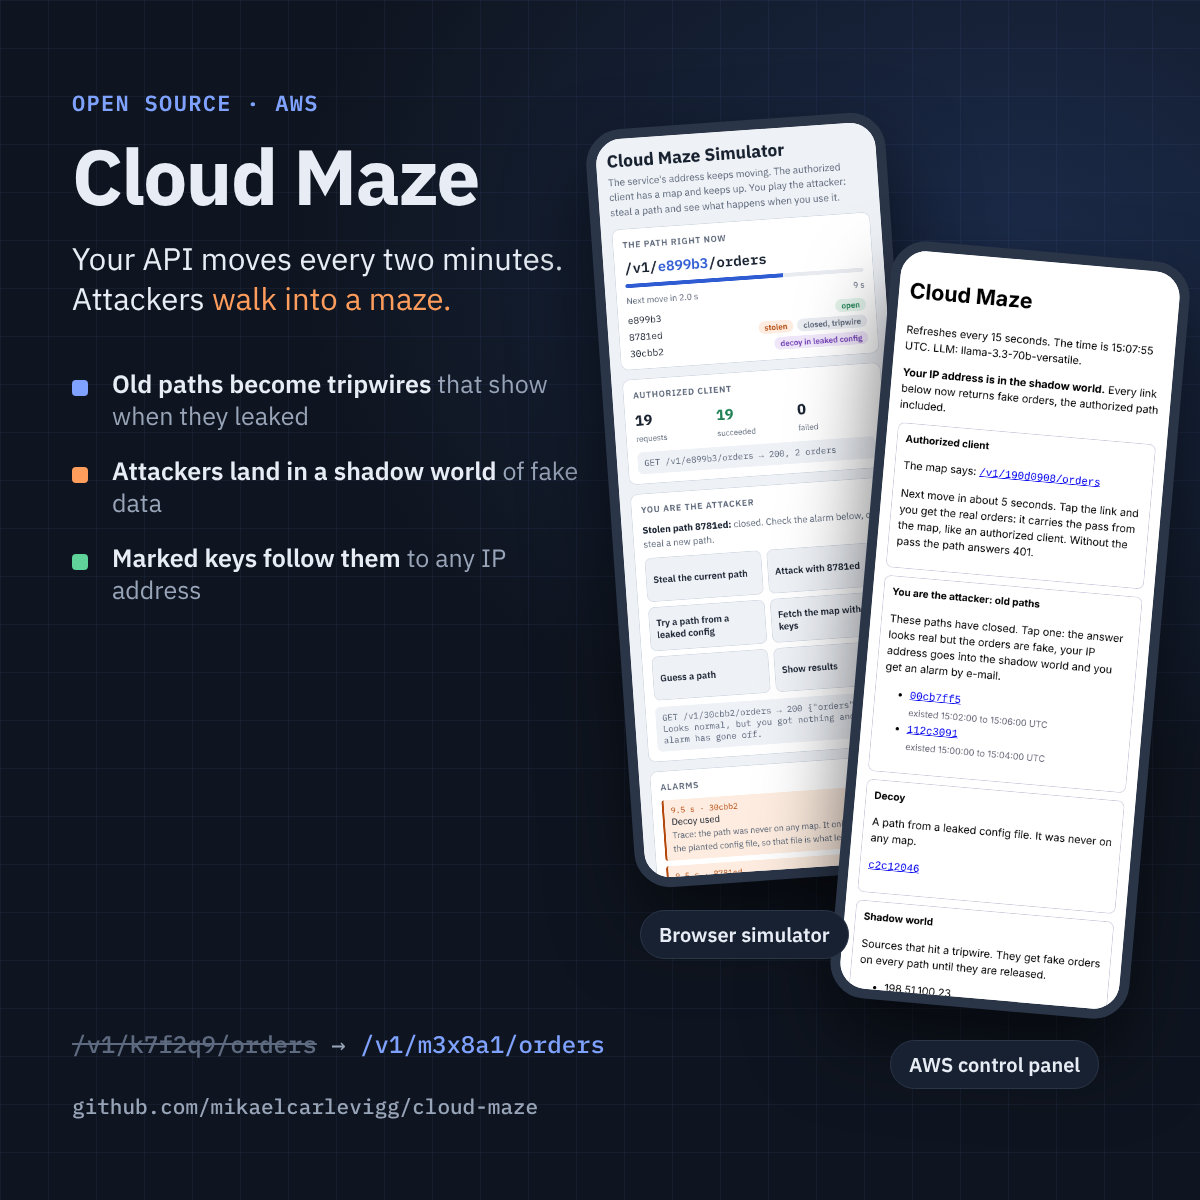
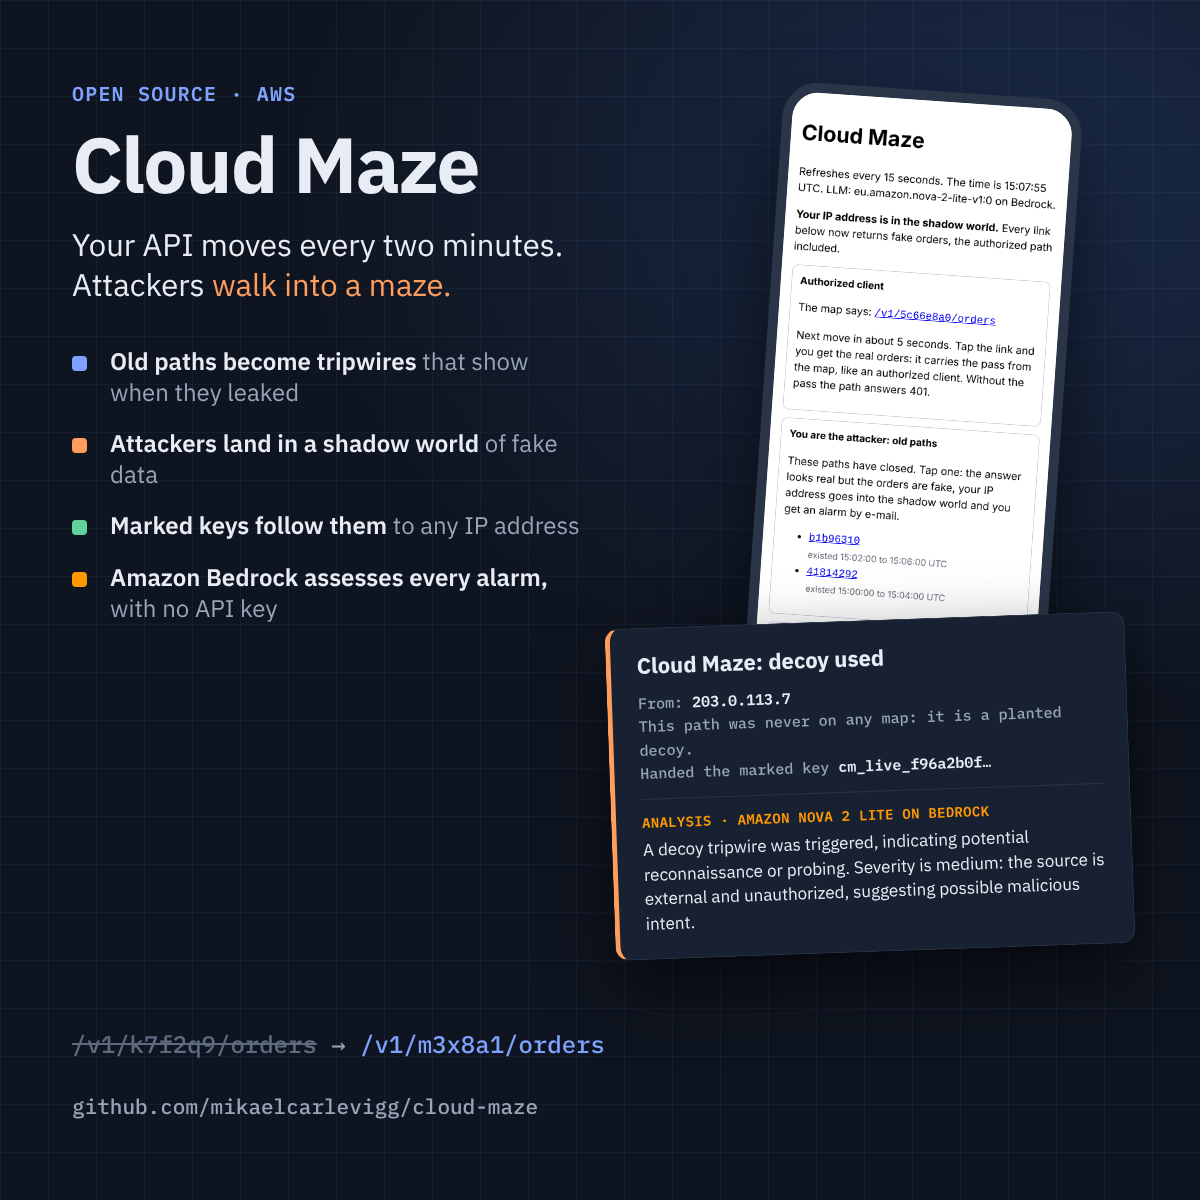
Update the share images for Amazon Bedrock
The LinkedIn image gains a fourth point, that Amazon Bedrock assesses
every alarm with no API key, and replaces the simulator screenshot with
an alarm card. Its analysis text is the real one Amazon Nova 2 Lite wrote
during the Bedrock test, with the IP address replaced by a documentation
address. The control panel screenshot is re-rendered with Nova on
Bedrock as the LLM, and the social preview is redrawn with it.

Claude-Session: https://claude.ai/code/session_01DBQF953LedQxMDd2hyHAQ3

Changed region(s): [[0.0617, 0.0617, 0.9867, 0.8942]]

diff --git a/docs/social/linkedin.html b/docs/social/linkedin.html
@@ -1,35 +1,37 @@
 <!doctype html>
-<!-- Source of docs/images/linkedin.png. Render at 1200 x 1200, for example with a headless browser screenshot. -->
+<!-- Source of docs/images/linkedin.png. Render at 1200 x 1200, for example with a headless browser screenshot.
+     The alarm text is a real analysis from Amazon Nova 2 Lite on Bedrock, with the IP address replaced by a documentation address. -->
 <html><head><meta charset="utf-8">
 <link rel="stylesheet" href="https://fonts.googleapis.com/css2?family=IBM+Plex+Mono:wght@500;600&family=IBM+Plex+Sans:wght@400;600;700&display=swap">
 <style>
-  :root { --bg:#0f1520; --panel:#182131; --ink:#e8edf5; --muted:#98a4b8; --accent:#7fa2ff; --alarm:#ff9d5c; --ok:#5fd39a; }
+  :root { --bg:#0f1520; --panel:#182131; --line:#2a3548; --ink:#e8edf5; --muted:#98a4b8; --accent:#7fa2ff; --alarm:#ff9d5c; --ok:#5fd39a; --aws:#ff9900; }
   * { box-sizing: border-box; }
-  body { margin:0; width:1200px; height:1200px; background: radial-gradient(1200px 900px at 85% 20%, #1b2a48 0%, var(--bg) 60%); color:var(--ink);
+  body { margin:0; width:1200px; height:1200px; background: radial-gradient(1200px 900px at 85% 15%, #1b2a48 0%, var(--bg) 60%); color:var(--ink);
          font-family:"IBM Plex Sans", system-ui, sans-serif; overflow:hidden; position:relative; }
-  .grid { position:absolute; inset:0; background-image: linear-gradient(rgba(127,162,255,.06) 1px, transparent 1px), linear-gradient(90deg, rgba(127,162,255,.06) 1px, transparent 1px);
-          background-size: 48px 48px; }
-  .text { position:absolute; left:72px; top:88px; width:520px; }
-  .eyebrow { font:600 22px "IBM Plex Mono", monospace; color:var(--accent); letter-spacing:.06em; text-transform:uppercase; }
-  h1 { font-size:78px; line-height:1; margin:20px 0 24px; font-weight:700; letter-spacing:-.02em; }
-  .lede { font-size:31px; line-height:1.3; color:var(--ink); margin:0 0 48px; }
+  .grid { position:absolute; inset:0; background-image: linear-gradient(rgba(127,162,255,.06) 1px, transparent 1px), linear-gradient(90deg, rgba(127,162,255,.06) 1px, transparent 1px); background-size: 48px 48px; }
+  .text { position:absolute; left:72px; top:80px; width:520px; }
+  .eyebrow { font:600 20px "IBM Plex Mono", monospace; color:var(--accent); letter-spacing:.06em; text-transform:uppercase; }
+  h1 { font-size:78px; line-height:1; margin:18px 0 22px; font-weight:700; letter-spacing:-.02em; }
+  .lede { font-size:31px; line-height:1.3; margin:0 0 40px; }
   .lede em { font-style:normal; color:var(--alarm); }
-  ul { list-style:none; padding:0; margin:0; display:flex; flex-direction:column; gap:22px; }
-  li { font-size:25px; line-height:1.3; color:var(--muted); padding-left:40px; position:relative; }
+  ul { list-style:none; padding:0; margin:0; display:flex; flex-direction:column; gap:20px; }
+  li { font-size:24px; line-height:1.3; color:var(--muted); padding-left:38px; position:relative; }
   li b { color:var(--ink); font-weight:600; }
-  li::before { content:""; position:absolute; left:0; top:12px; width:16px; height:16px; border-radius:4px; background:var(--accent); }
-  li.alarm::before { background:var(--alarm); }
-  li.ok::before { background:var(--ok); }
+  li::before { content:""; position:absolute; left:0; top:10px; width:15px; height:15px; border-radius:4px; background:var(--accent); }
+  li.alarm::before { background:var(--alarm); } li.ok::before { background:var(--ok); } li.aws::before { background:var(--aws); }
   .path { position:absolute; left:72px; bottom:140px; font:500 24px "IBM Plex Mono", monospace; color:var(--muted); }
   .path s { color:#5d6a80; } .path span { color:var(--accent); }
   .foot { position:absolute; left:72px; bottom:80px; font:500 21px "IBM Plex Mono", monospace; color:var(--muted); }
-  .phone { position:absolute; width:300px; border-radius:36px; overflow:hidden; border:10px solid #2a3548; box-shadow: 0 40px 80px rgba(0,0,0,.55); background:#fff; }
+  .phone { position:absolute; left:760px; top:90px; width:300px; height:700px; border-radius:36px; overflow:hidden; border:10px solid var(--line);
+           box-shadow:0 40px 80px rgba(0,0,0,.55); background:#fff; transform: rotate(4deg); }
   .phone img { display:block; width:100%; }
-  .p1 { left:610px; top:120px; height:760px; transform: rotate(-4deg); }
-  .p2 { left:860px; top:250px; height:760px; transform: rotate(5deg); }
-  .tag { position:absolute; font:600 20px "IBM Plex Sans"; padding:10px 18px; border-radius:999px; }
-  .t1 { left:640px; top:910px; background:var(--panel); color:var(--ink); border:1px solid #2a3548; }
-  .t2 { left:890px; top:1040px; background:var(--panel); color:var(--ink); border:1px solid #2a3548; }
+  .alarm-card { position:absolute; left:610px; top:620px; width:520px; background:var(--panel); border:1px solid var(--line); border-left:5px solid var(--alarm);
+                border-radius:14px; padding:22px 26px; box-shadow:0 30px 70px rgba(0,0,0,.6); transform: rotate(-2deg); }
+  .alarm-card .subject { font:700 22px "IBM Plex Sans"; margin-bottom:12px; }
+  .alarm-card .facts { font:500 15px/1.55 "IBM Plex Mono", monospace; color:var(--muted); }
+  .alarm-card .facts b { color:var(--ink); font-weight:600; }
+  .alarm-card .analysis { margin-top:14px; padding-top:14px; border-top:1px solid var(--line); font-size:17px; line-height:1.45; color:var(--ink); }
+  .alarm-card .by { font:600 14px "IBM Plex Mono", monospace; color:var(--aws); margin-bottom:6px; letter-spacing:.02em; }
 </style></head>
 <body>
   <div class="grid"></div>
@@ -41,12 +43,22 @@
       <li><b>Old paths become tripwires</b> that show when they leaked</li>
       <li class="alarm"><b>Attackers land in a shadow world</b> of fake data</li>
       <li class="ok"><b>Marked keys follow them</b> to any IP address</li>
+      <li class="aws"><b>Amazon Bedrock assesses every alarm,</b> with no API key</li>
     </ul>
   </div>
   <div class="path"><s>/v1/k7f2q9/orders</s> → <span>/v1/m3x8a1/orders</span></div>
   <div class="foot">github.com/mikaelcarlevigg/cloud-maze</div>
-  <div class="phone p1"><img src="../images/simulator.png" alt=""></div>
-  <div class="phone p2"><img src="../images/panel.png" alt=""></div>
-  <div class="tag t1">Browser simulator</div>
-  <div class="tag t2">AWS control panel</div>
+  <div class="phone"><img src="../images/panel.png" alt=""></div>
+  <div class="alarm-card">
+    <div class="subject">Cloud Maze: decoy used</div>
+    <div class="facts">
+      From: <b>203.0.113.7</b><br>
+      This path was never on any map: it is a planted decoy.<br>
+      Handed the marked key <b>cm_live_f96a2b0f…</b>
+    </div>
+    <div class="analysis">
+      <div class="by">ANALYSIS · AMAZON NOVA 2 LITE ON BEDROCK</div>
+      A decoy tripwire was triggered, indicating potential reconnaissance or probing. Severity is medium: the source is external and unauthorized, suggesting possible malicious intent.
+    </div>
+  </div>
 </body></html>
